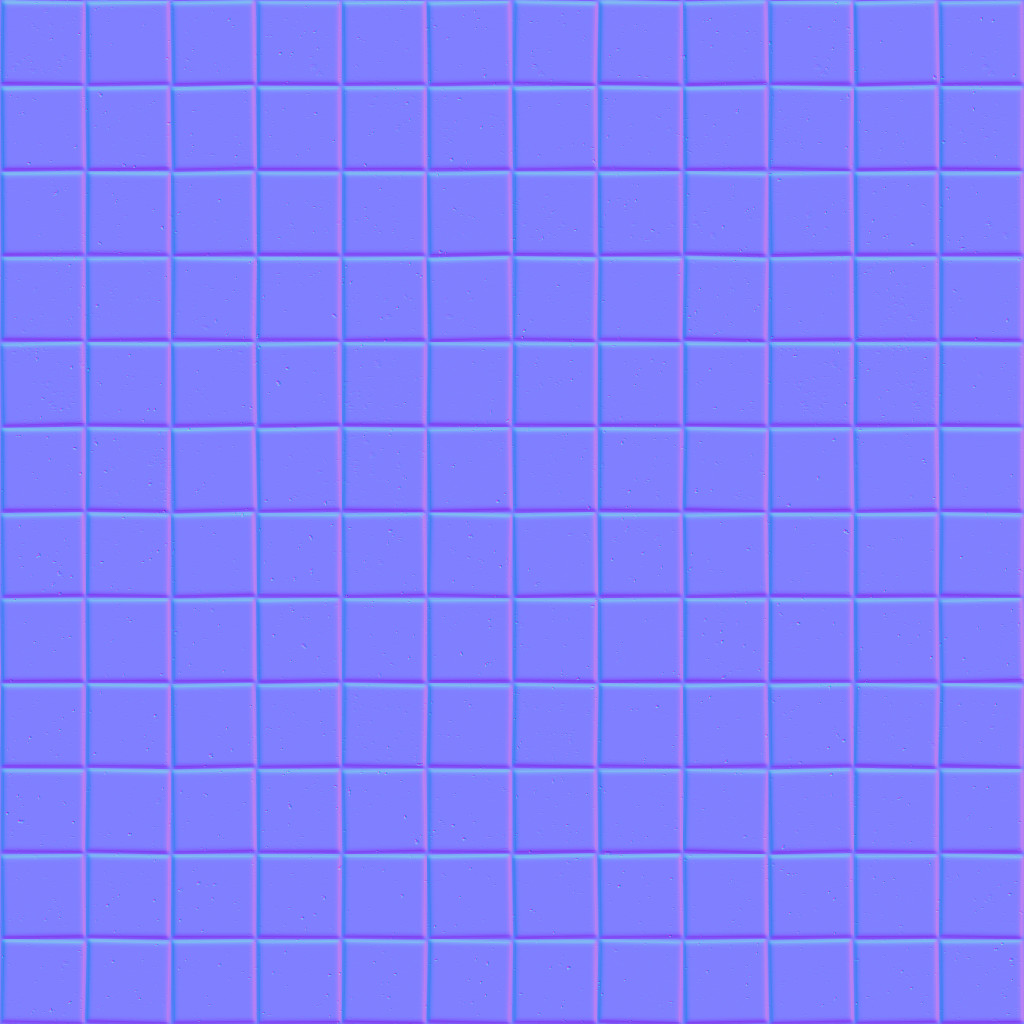
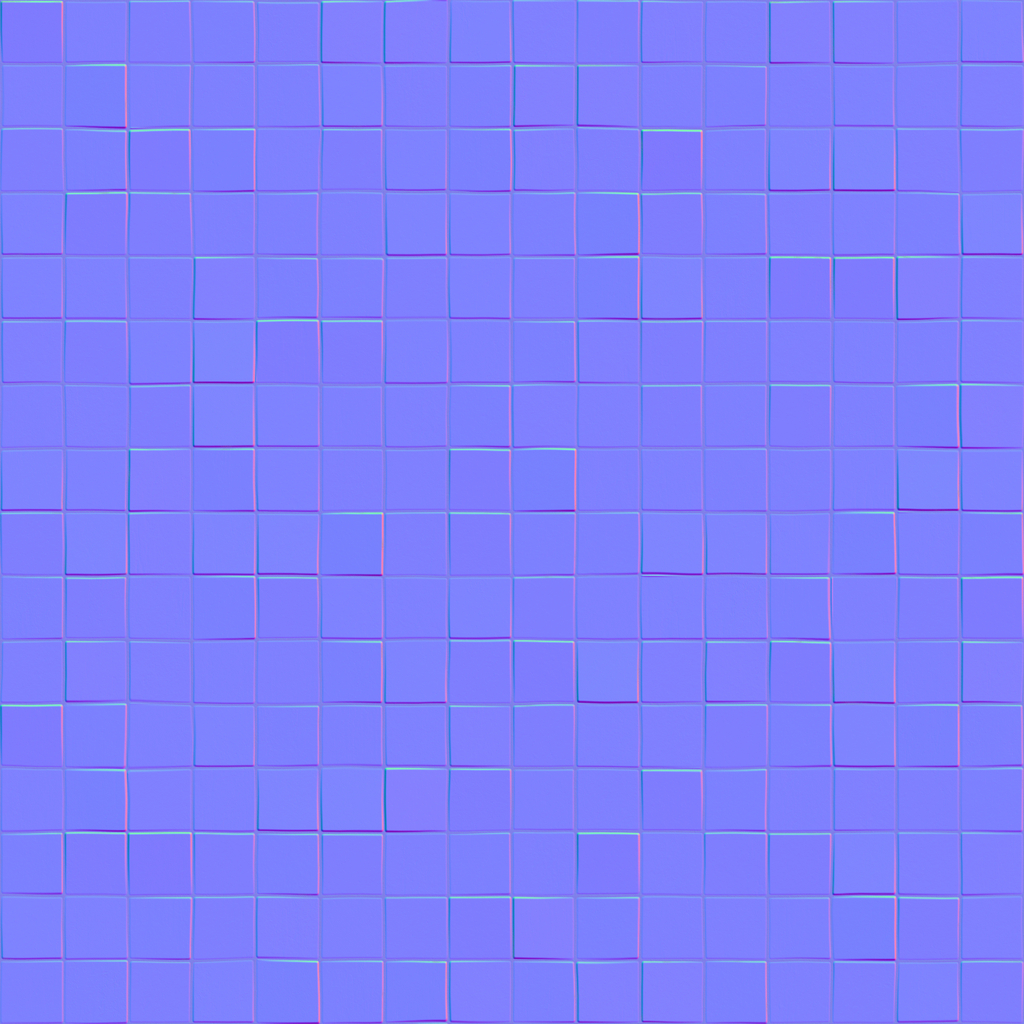
cool stuff

Changed region(s): [[0.0, 0.0, 1.0, 1.0]]

diff --git a/src/renderer/renderer.cpp b/src/renderer/renderer.cpp
@@ -32,6 +32,7 @@ renderer_t::renderer_t(game_t& game)
       .attach(m_lighting)
       .bind("u_albedo", 0)
       .bind("u_normal", 1)
+      .bind("u_roughness", 2)
       .compile()
     ),
     m_surface(
@@ -89,8 +90,8 @@ renderer_t::renderer_t(game_t& game)
 
   m_textures.reserve(64);
   init_assets();
-  m_lighting.add_light(vec3(1,1,1), vec3(3,1,3));
-  m_lighting.add_light(vec3(6,4,16), vec3(0.1,32,32));
+  m_lighting.add_light(vec3(-8,1,-8), vec3(16,3,16));
+  m_lighting.add_light(vec3(6,4,16), vec3(3,32,32));
 }
 
 void renderer_t::bind() {
@@ -160,6 +161,7 @@ void renderer_t::draw_entities() {
       m_camera.sub(T_rotation * T_scale * T_translation);
       m_materials[model.material].albedo.bind(0);
       m_materials[model.material].normal.bind(1);
+      m_materials[model.material].roughness.bind(2);
       m_meshes[model.mesh].draw();
     }
   }
@@ -178,17 +180,21 @@ void renderer_t::init_assets() {
   
   texture_t& default_albedo = m_textures.emplace_back(1, 1, GL_RGBA, GL_RGBA32F, GL_UNSIGNED_BYTE, std::vector { 0xffffffffu });
   texture_t& default_normal = m_textures.emplace_back(1, 1, GL_RGBA, GL_RGBA32F, GL_UNSIGNED_BYTE, std::vector { 0xffff8080u });
-  m_materials.push_back(material_t(default_albedo, default_normal));
+  texture_t& default_roughness = m_textures.emplace_back(1, 1, GL_RGBA, GL_RGBA32F, GL_UNSIGNED_BYTE, std::vector { 0xff888888u });
+  m_materials.push_back(material_t(default_albedo, default_normal, default_roughness));
 
   texture_t& brick_albedo = m_textures.emplace_back("assets/brick/albedo.jpg");
   texture_t& brick_normal = m_textures.emplace_back("assets/brick/normal.jpg");
-  m_materials.push_back(material_t(brick_albedo, brick_normal));
+  texture_t& brick_roughness = m_textures.emplace_back("assets/brick/roughness.jpg");
+  m_materials.push_back(material_t(brick_albedo, brick_normal, brick_roughness));
 
   texture_t& grass_albedo = m_textures.emplace_back("assets/grass/albedo.jpg");
   texture_t& grass_normal = m_textures.emplace_back("assets/grass/normal.jpg");
-  m_materials.push_back(material_t(grass_albedo, grass_normal));
+  texture_t& grass_roughness = m_textures.emplace_back("assets/grass/roughness.jpg");
+  m_materials.push_back(material_t(grass_albedo, grass_normal, grass_roughness));
 
   texture_t& tile_albedo = m_textures.emplace_back("assets/tile/albedo.jpg");
   texture_t& tile_normal = m_textures.emplace_back("assets/tile/normal.jpg");
-  m_materials.push_back(material_t(tile_albedo, tile_normal));
+  texture_t& tile_roughness = m_textures.emplace_back("assets/tile/roughness.jpg");
+  m_materials.push_back(material_t(tile_albedo, tile_normal, tile_roughness));
 }

diff --git a/src/core/main.cpp b/src/core/main.cpp
@@ -45,10 +45,18 @@ int main(int argc, char** argv) {
   create_cuboid(game, vec3(10.0, 0.0, 5.0), vec3(5.0, 3.0, 6.0), MATERIAL_BRICK);
   
   create_cuboid(game, vec3(9.0, 2.0, 5.0), vec3(1.0, 0.5, 4.0), MATERIAL_DEFAULT);
-  create_cuboid(game, vec3(2.0, 0.0, 5.0), vec3(3.0, 0.5, 1.0), MATERIAL_DEFAULT);
-  create_cuboid(game, vec3(2.0, 0.0, 6.0), vec3(3.0, 1.0, 1.0), MATERIAL_DEFAULT);
-  create_cuboid(game, vec3(2.0, 0.0, 7.0), vec3(3.0, 1.5, 1.0), MATERIAL_DEFAULT);
-  create_cuboid(game, vec3(2.0, 0.0, 8.0), vec3(3.0, 2.0, 1.0), MATERIAL_DEFAULT);
+  create_cuboid(game, vec3(2.0, 0.0, 5.0), vec3(3.0, 0.5, 1.0), MATERIAL_GRASS);
+  create_cuboid(game, vec3(2.0, 0.0, 6.0), vec3(3.0, 1.0, 1.0), MATERIAL_GRASS);
+  create_cuboid(game, vec3(2.0, 0.0, 7.0), vec3(3.0, 1.5, 1.0), MATERIAL_GRASS);
+  create_cuboid(game, vec3(2.0, 0.0, 8.0), vec3(3.0, 2.0, 1.0), MATERIAL_GRASS);
+  
+  create_cuboid(game, vec3(-3.0, 0.0, 0.0), vec3(1.0, 5.0, 1.0), MATERIAL_BRICK);
+  create_cuboid(game, vec3(-3.0, 0.0, -5.0), vec3(1.0, 5.0, 1.0), MATERIAL_BRICK);
+  create_cuboid(game, vec3(-3.0, 0.0, -10.0), vec3(1.0, 5.0, 1.0), MATERIAL_BRICK);
+  
+  create_cuboid(game, vec3(5.0, 2.0, -7.0), vec3(0.7, 3.0, 0.7), MATERIAL_TILE);
+  create_cuboid(game, vec3(10.0, 2.0, -7.0), vec3(0.7, 3.0, 0.7), MATERIAL_TILE);
+  create_cuboid(game, vec3(15.0, 2.0, -7.0), vec3(0.7, 3.0, 0.7), MATERIAL_TILE);
   
   renderer_t renderer(game);
   renderer.bind();

diff --git a/src/renderer/material.hpp b/src/renderer/material.hpp
@@ -7,10 +7,12 @@ class material_t {
 public:
   texture_t& albedo;
   texture_t& normal;
+  texture_t& roughness;
 
-  material_t(texture_t& _albedo, texture_t& _normal)
+  material_t(texture_t& _albedo, texture_t& _normal, texture_t& _roughness)
     : albedo(_albedo),
-    normal(_normal)
+      normal(_normal),
+      roughness(_roughness)
     {}
 };
 
